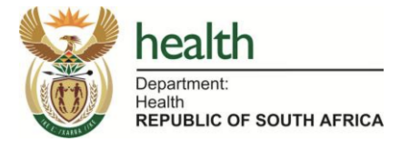
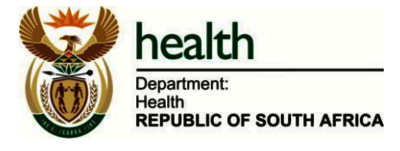
Improve image loading and Safari compatibility with performance optimizations

diff --git a/index.html b/index.html
@@ -3,6 +3,7 @@
 <head>
     <meta charset="UTF-8">
     <meta name="viewport" content="width=device-width, initial-scale=1.0">
+    <meta http-equiv="X-UA-Compatible" content="IE=edge">
     <meta name="description" content="HPV Community Public Engagement - Learn about HPV prevention, vaccination, and screening. Educational resource by UCT Honours students.">
     <meta name="keywords" content="HPV, human papillomavirus, vaccination, cervical cancer, prevention, health education, South Africa">
     <meta name="author" content="UCT Honours Project Team 2024">
@@ -27,6 +28,10 @@
     <link rel="preconnect" href="https://fonts.googleapis.com">
     <link rel="preconnect" href="https://fonts.gstatic.com" crossorigin>
     <link href="https://fonts.googleapis.com/css2?family=Cookie&family=Inter:wght@400;500;600;700&display=swap" rel="stylesheet">
+    
+    <!-- Preload critical images for Safari -->
+    <link rel="preload" as="image" href="cansa.png" type="image/png">
+    <link rel="preload" as="image" href="DOH.png" type="image/png">
     
     <link rel="stylesheet" type="text/css" href="styles.css">
 </head>
@@ -89,7 +94,9 @@
                            aria-label="Visit CANSA website for women's health information">
                             <img src="cansa.png" 
                                  alt="The Cancer Association of South Africa logo - supporting cancer awareness and research"
-                                 loading="lazy">
+                                 width="400" 
+                                 height="197"
+                                 decoding="async">
                         </a>
                         <p class="image-caption">(click image for more information)</p>
                     </div>
@@ -117,7 +124,9 @@
                            aria-label="Visit UNICEF South Africa for HPV and cervical cancer information">
                             <img src="UNICEF.svg" 
                                  alt="UNICEF logo - United Nations Children's Fund supporting health education"
-                                 loading="lazy">
+                                 width="150" 
+                                 height="150"
+                                 decoding="async">
                         </a>
                     </div>
                     <div class="resource-item">
@@ -127,7 +136,9 @@
                            aria-label="Visit CDC for comprehensive HPV infection information">
                             <img src="cdc.svg" 
                                  alt="CDC logo - Centers for Disease Control and Prevention providing health guidance"
-                                 loading="lazy">
+                                 width="150" 
+                                 height="150"
+                                 decoding="async">
                         </a>
                         <p class="resource-caption">(click any image for more information)</p>
                     </div>
@@ -138,7 +149,9 @@
                            aria-label="Download South African Department of Health cervical cancer policy document">
                             <img src="DOH.png" 
                                  alt="Department of Health Republic of South Africa logo - official health policy and guidelines"
-                                 loading="lazy">
+                                 width="400" 
+                                 height="151"
+                                 decoding="async">
                         </a>
                     </div>
                 </div>
@@ -163,13 +176,41 @@
                    target="_blank"
                    rel="noopener noreferrer"
                    aria-label="Follow us on Instagram for HPV awareness updates">
-                    <img src="ig.svg" 
-                         alt="Instagram logo - follow our social media for updates"
-                         loading="lazy">
+                                         <img src="ig.svg" 
+                          alt="Instagram logo - follow our social media for updates"
+                          width="50" 
+                          height="50"
+                          decoding="async">
                 </a>
                 <p>Follow Us</p>
             </div>
         </div>
     </footer>
+
+    <script>
+        // Safari image loading fallback
+        document.addEventListener('DOMContentLoaded', function() {
+            const images = document.querySelectorAll('img');
+            images.forEach(function(img) {
+                img.addEventListener('error', function() {
+                    console.log('Image failed to load:', this.src);
+                    // Retry loading the image
+                    const src = this.src;
+                    this.src = '';
+                    setTimeout(() => {
+                        this.src = src;
+                    }, 100);
+                });
+                
+                // Force redraw for Safari
+                if (navigator.userAgent.indexOf('Safari') !== -1 && navigator.userAgent.indexOf('Chrome') === -1) {
+                    img.style.opacity = '0';
+                    img.onload = function() {
+                        this.style.opacity = '1';
+                    };
+                }
+            });
+        });
+    </script>
 </body>
 </html>

diff --git a/styles.css b/styles.css
@@ -253,9 +253,12 @@ strong {
 
 .statistics-image img {
     width: 100%;
+    max-width: 400px;
     height: auto;
     border-radius: 12px;
     transition: transform 0.3s ease, box-shadow 0.3s ease;
+    -webkit-backface-visibility: hidden;
+    backface-visibility: hidden;
 }
 
 .statistics-image img:hover {
@@ -309,6 +312,9 @@ strong {
     max-width: 150px;
     height: auto;
     transition: filter 0.3s ease;
+    -webkit-backface-visibility: hidden;
+    backface-visibility: hidden;
+    object-fit: contain;
 }
 
 .resource-item img:hover {
@@ -376,6 +382,9 @@ strong {
     width: 50px;
     height: 50px;
     transition: transform 0.3s ease, filter 0.3s ease;
+    -webkit-backface-visibility: hidden;
+    backface-visibility: hidden;
+    object-fit: contain;
 }
 
 .footer-social img:hover {
@@ -386,6 +395,30 @@ strong {
 .footer-social p {
     margin-top: var(--spacing-sm);
     font-size: var(--font-size-lg);
+}
+
+/* Image Styles for Safari Compatibility */
+img {
+    max-width: 100%;
+    height: auto;
+    display: block;
+    border: 0;
+    -webkit-user-select: none;
+    -moz-user-select: none;
+    -ms-user-select: none;
+    user-select: none;
+}
+
+/* Ensure images load properly on Safari */
+img[src$=".png"], 
+img[src$=".jpg"], 
+img[src$=".jpeg"] {
+    image-rendering: -webkit-optimize-contrast;
+    image-rendering: crisp-edges;
+}
+
+img[src$=".svg"] {
+    image-rendering: auto;
 }
 
 /* Link Styles */
@@ -553,5 +586,21 @@ a:focus {
         --text-light: #000000;
         --background-light: #ffffff;
         --background-white: #ffffff;
+    }
+}
+
+/* Safari-specific fixes */
+@supports (-webkit-appearance: none) {
+    img {
+        -webkit-transform: translateZ(0);
+        transform: translateZ(0);
+        -webkit-backface-visibility: hidden;
+        backface-visibility: hidden;
+    }
+    
+    .statistics-image img,
+    .resource-item img,
+    .footer-social img {
+        will-change: transform;
     }
 }
